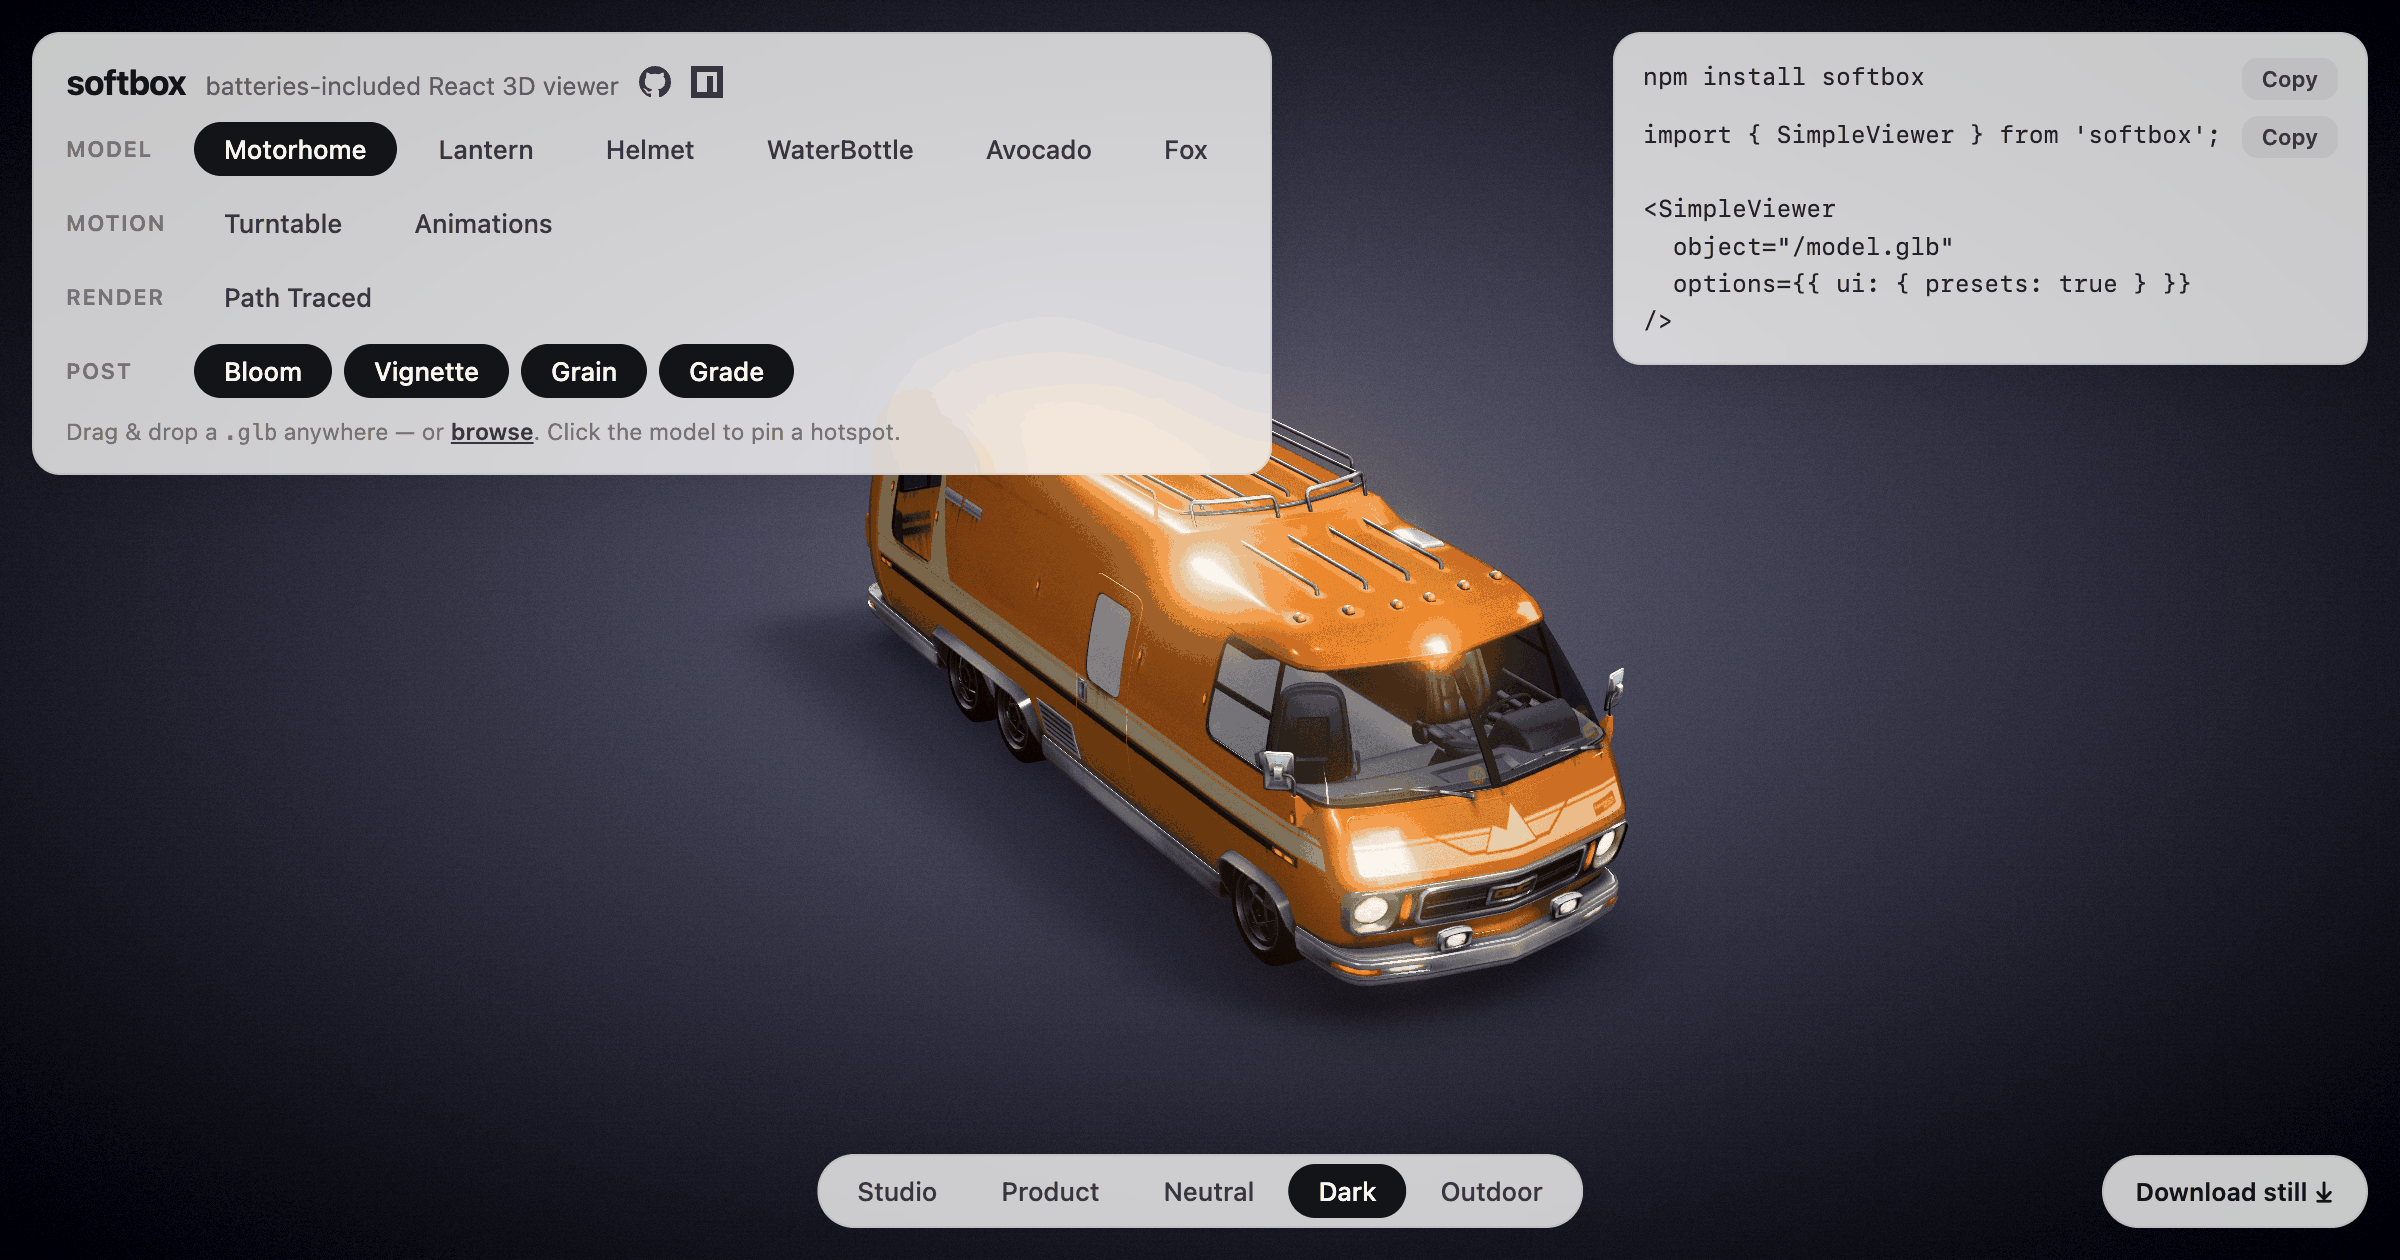
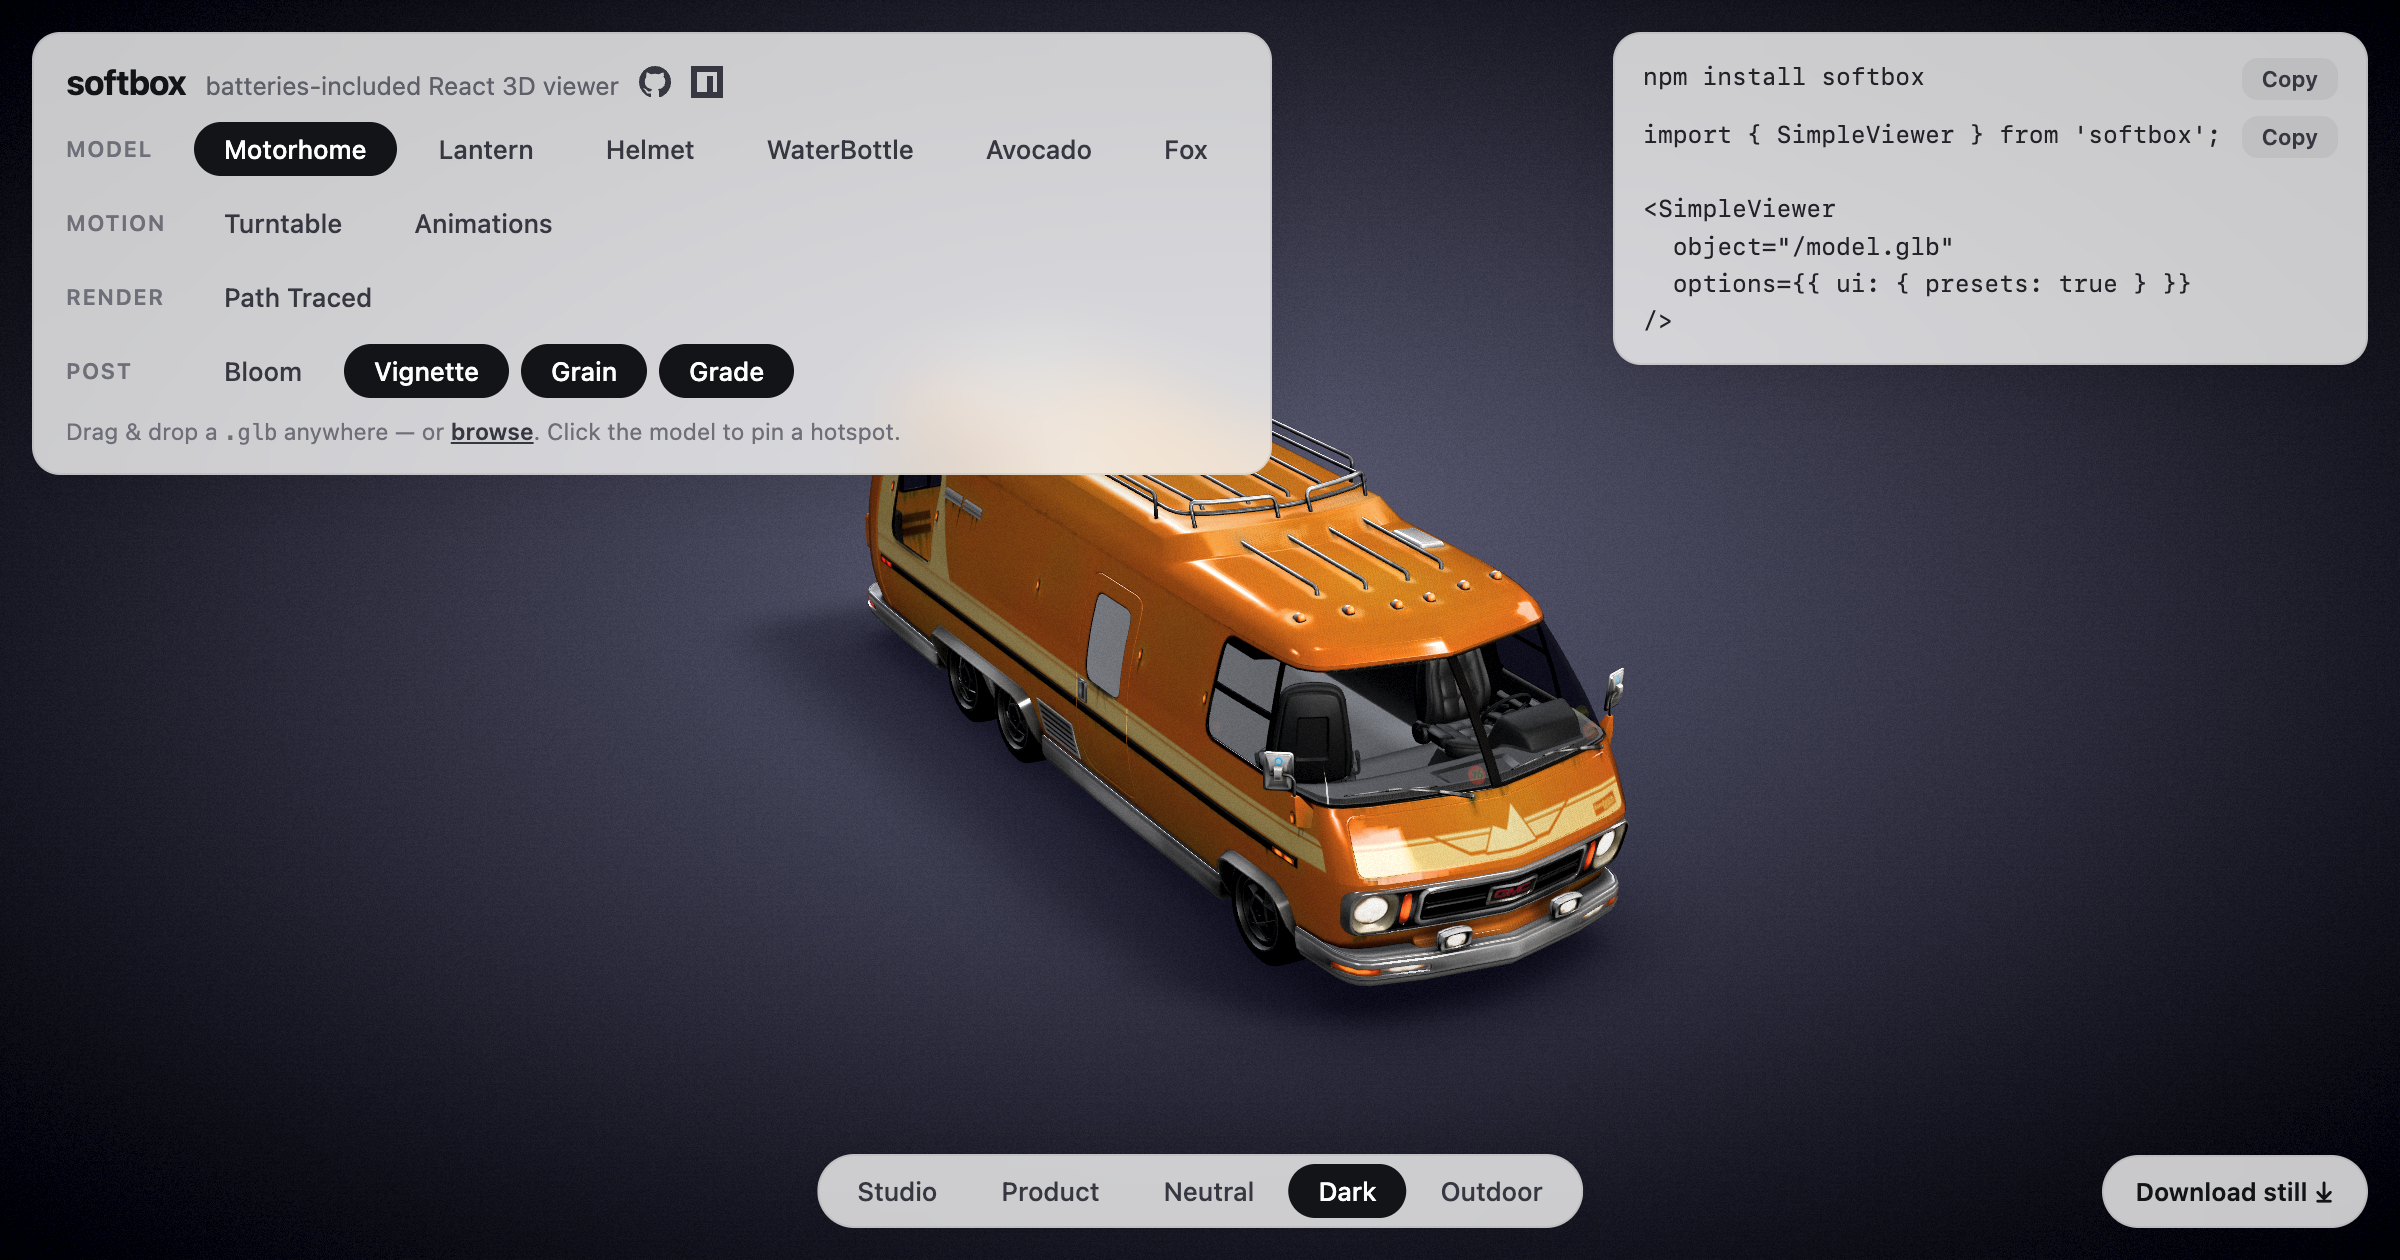
Retake the hero shot without bloom, keep it 24-bit
The published shot had two problems the review missed: the bloom
flare read as a blown-out smudge across the roof, and the 256-color
quantization posterized the dark radial backdrop around it. Dark +
vignette + grain + grade now, lossless truecolor PNG (3.0 MB — the
film grain is the honest cost).

Claude-Session: https://claude.ai/code/session_01NCWw7Qz3ddyu2nwhcwEahh

Changed region(s): [[0.4375, 0.3714, 0.6562, 0.7738], [0.0625, 0.2476, 0.1562, 0.3405], [0.4375, 0.5262, 0.4688, 0.5571]]

diff --git a/CHANGELOG.md b/CHANGELOG.md
@@ -51,8 +51,7 @@ board: every audit dimension now sits at A+ or A++.
   and `powerPreference` (they always worked; the type never admitted them).
 
 **Showcase:** the README/og hero shot is refreshed — the playground on the
-Dark preset with every post-processing effect on (bloom, vignette, grain,
-grade).
+Dark preset with the vignette, grain and grade effects on.
 
 **Guardrails (dev-facing):** coverage pins on the path-tracing modules, an
 API-drift canary against the real three-gpu-pathtracer, a real-WebGL